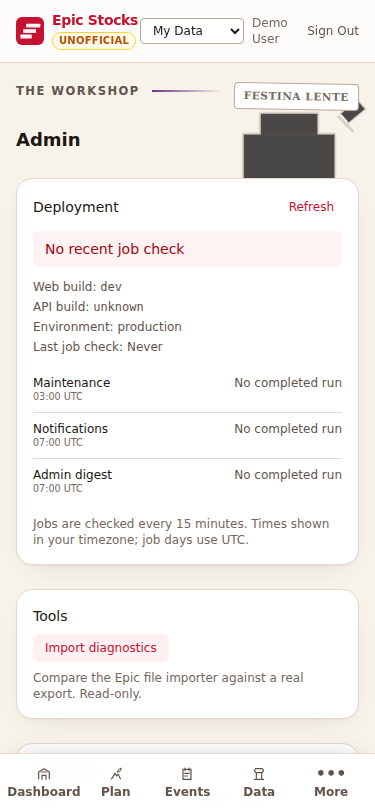
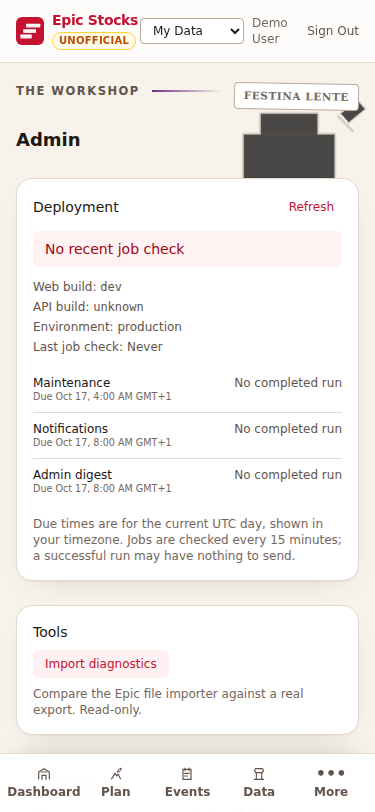
Show local due times and actual job completion in Admin (#577)

Changed region(s): [[0.0293, 0.585, 0.968, 0.9236], [0.088, 0.5234, 0.4693, 0.5542], [0.088, 0.4618, 0.4693, 0.4926]]

diff --git a/frontend/src/__tests__/Admin.test.tsx b/frontend/src/__tests__/Admin.test.tsx
@@ -4,6 +4,7 @@ import userEvent from '@testing-library/user-event'
 import { MemoryRouter } from 'react-router-dom'
 import { AppProvider } from '../app/AppProvider.tsx'
 import Admin from '../scaffold/pages/Admin.tsx'
+import { formatDueLocal } from '../scaffold/pages/admin/deploymentTime.ts'
 
 beforeEach(() => {
   localStorage.setItem('auth_token', 'test-token')
@@ -46,9 +47,9 @@ const DEPLOYMENT_STATUS = {
   build: 'dev', environment: 'staging', state: 'stale',
   last_started_at: null, last_checked_at: null,
   jobs: [
-    { name: 'maintenance', due_utc: '03:00', last_completed_day: null, last_result: null },
-    { name: 'notifications', due_utc: '07:00', last_completed_day: null, last_result: null },
-    { name: 'admin_digest', due_utc: '07:00', last_completed_day: null, last_result: null },
+    { name: 'maintenance', due_utc: '03:00', last_completed_day: null, last_completed_at: null, last_result: null },
+    { name: 'notifications', due_utc: '07:00', last_completed_day: null, last_completed_at: null, last_result: null },
+    { name: 'admin_digest', due_utc: '07:00', last_completed_day: null, last_completed_at: null, last_result: null },
   ],
 }
 
@@ -100,6 +101,13 @@ function renderPage() {
 }
 
 describe('Admin', () => {
+  it('shows UTC due times on the correct local date across daylight saving time', () => {
+    expect(formatDueLocal('03:00', '2026-10-17', 'America/Chicago'))
+      .toMatch(/Oct 16, 10:00 PM CDT/)
+    expect(formatDueLocal('03:00', '2026-01-17', 'America/Chicago'))
+      .toMatch(/Jan 16, 9:00 PM CST/)
+  })
+
   it('shows scheduler health and last completed jobs on a phone', async () => {
     mockFetch({
       '/api/admin/stats': STATS,
@@ -108,7 +116,10 @@ describe('Admin', () => {
       '/api/admin/deployment-status': {
         ...DEPLOYMENT_STATUS, state: 'failed', last_checked_at: '2026-10-17T12:00:00+00:00',
         jobs: DEPLOYMENT_STATUS.jobs.map(job => job.name === 'admin_digest'
-          ? { ...job, last_result: 'failed' } : job),
+          ? { ...job, last_result: 'failed' }
+          : job.name === 'maintenance'
+            ? { ...job, last_completed_day: '2026-10-17', last_completed_at: '2026-10-17T21:45:00Z' }
+            : job),
       },
     })
     renderPage()
@@ -116,6 +127,9 @@ describe('Admin', () => {
     expect(await screen.findByRole('status')).toHaveTextContent('Job failed; retrying')
     expect(screen.getByText('Admin digest')).toBeInTheDocument()
     expect(screen.getByText('Failed last check')).toBeInTheDocument()
+    expect(screen.getByText('UTC day 2026-10-17')).toBeInTheDocument()
+    expect(screen.getByText(/^Ran Oct 17,/)).toBeInTheDocument()
+    expect(screen.getByText(/a successful run may have nothing to send/)).toBeInTheDocument()
     expect(screen.getByRole('button', { name: 'Refresh deployment status' })).toBeInTheDocument()
   })
 

diff --git a/frontend/src/scaffold/pages/admin/DeploymentHealth.tsx b/frontend/src/scaffold/pages/admin/DeploymentHealth.tsx
@@ -1,6 +1,7 @@
 import { useCallback, useEffect, useState } from 'react'
 import { api, type DeploymentStatus } from '../../../api.ts'
 import { AdminSection } from './AdminSection.tsx'
+import { formatDueLocal, formatLocalTime } from './deploymentTime.ts'
 
 const LABELS: Record<DeploymentStatus['state'], string> = {
   healthy: 'Jobs current',
@@ -17,7 +18,7 @@ const JOB_NAMES: Record<string, string> = {
 }
 
 function localTime(value: string | null) {
-  return value ? new Date(value).toLocaleString() : 'Never'
+  return value ? formatLocalTime(value) : 'Never'
 }
 
 export function DeploymentHealth() {
@@ -73,18 +74,19 @@ export function DeploymentHealth() {
           <p>Last job check: {localTime(status.last_checked_at)}</p>
         </div>
         <ul className="divide-y divide-cs-border text-xs">
-          {status.jobs.map(job => <li key={job.name} className="flex justify-between gap-3 py-2">
+          {status.jobs.map(job => <li key={job.name} className="grid grid-cols-2 gap-3 py-2">
             <span className="font-medium text-cs-text">{JOB_NAMES[job.name] ?? job.name}
-              <small className="block font-normal text-cs-muted">{job.due_utc} UTC</small>
+              <small className="block font-normal text-cs-muted">Due {formatDueLocal(job.due_utc, todayUtc)}</small>
             </span>
             <span className="text-right text-cs-text-2">
-              {job.last_completed_day === todayUtc ? 'Done today' :
-                job.last_completed_day ? `Last done ${job.last_completed_day}` : 'No completed run'}
+              {job.last_completed_at ? `Ran ${localTime(job.last_completed_at)}` :
+                job.last_completed_day ? 'Ran (time unavailable)' : 'No completed run'}
+              {job.last_completed_day && <small className="block text-cs-muted">UTC day {job.last_completed_day}</small>}
               {job.last_result === 'failed' && <strong className="block text-red-700 dark:text-red-300">Failed last check</strong>}
             </span>
           </li>)}
         </ul>
-        <p className="text-xs text-cs-muted">Jobs are checked every 15 minutes. Times shown in your timezone; job days use UTC.</p>
+        <p className="text-xs text-cs-muted">Due times are for the current UTC day, shown in your timezone. Jobs are checked every 15 minutes; a successful run may have nothing to send.</p>
       </div>}
     </AdminSection>
   )

diff --git a/frontend/src/scaffold/pages/admin/deploymentTime.ts b/frontend/src/scaffold/pages/admin/deploymentTime.ts
@@ -1,0 +1,12 @@
+export function formatLocalTime(value: string, timeZone?: string) {
+  const date = new Date(value)
+  if (Number.isNaN(date.getTime())) return 'Unknown'
+  return date.toLocaleString(undefined, {
+    month: 'short', day: 'numeric', hour: 'numeric', minute: '2-digit',
+    timeZoneName: 'short', timeZone,
+  })
+}
+
+export function formatDueLocal(dueUtc: string, utcDay: string, timeZone?: string) {
+  return formatLocalTime(`${utcDay}T${dueUtc}:00Z`, timeZone)
+}

diff --git a/frontend/src/api.ts b/frontend/src/api.ts
@@ -766,7 +766,7 @@ export interface DeploymentStatus {
   state: 'healthy' | 'running' | 'pending' | 'failed' | 'stale'
   last_started_at: string | null
   last_checked_at: string | null
-  jobs: { name: string; due_utc: string; last_completed_day: string | null; last_result: string | null }[]
+  jobs: { name: string; due_utc: string; last_completed_day: string | null; last_completed_at: string | null; last_result: string | null }[]
 }
 
 export interface SystemMetricPoint {

diff --git a/backend/tests/test_scheduled_jobs.py b/backend/tests/test_scheduled_jobs.py
@@ -21,6 +21,10 @@ def test_job_runs_after_missed_firing_and_only_once(setup_db, db_session, monkey
     assert jobs.run_due(_at(12)) == {"notifications": "already_done_or_running"}
     assert calls == [_at(9).date()]
     assert db_session.get(SystemSettings, "scheduled:notifications:last_completed").value == "2026-10-17"
+    completed = db_session.get(SystemSettings, "scheduled:notifications:last_completed_at").value
+    assert datetime.fromisoformat(completed).tzinfo == timezone.utc
+    assert jobs.run_due(_at(13)) == {"notifications": "already_done_or_running"}
+    assert db_session.get(SystemSettings, "scheduled:notifications:last_completed_at").value == completed
 
 
 def test_failed_job_retries_without_blocking_other_jobs(setup_db, db_session, monkeypatch):
@@ -39,6 +43,7 @@ def test_failed_job_retries_without_blocking_other_jobs(setup_db, db_session, mo
 
     assert jobs.run_due(_at(8)) == {"maintenance": "failed", "notifications": "completed"}
     assert db_session.get(SystemSettings, "scheduled:maintenance:last_completed") is None
+    assert db_session.get(SystemSettings, "scheduled:maintenance:last_completed_at") is None
     assert jobs.run_due(_at(8) + timedelta(minutes=15)) == {
         "maintenance": "completed", "notifications": "already_done_or_running",
     }

diff --git a/backend/scaffold/routers/admin.py b/backend/scaffold/routers/admin.py
@@ -45,6 +45,7 @@ class ScheduledJobStatus(BaseModel):
     name: str
     due_utc: str
     last_completed_day: str | None
+    last_completed_at: str | None
     last_result: str | None
 
 
@@ -64,7 +65,8 @@ def deployment_status(admin: User = Depends(get_admin_user), db: Session = Depen
             "scheduled:runner:last_results"]
     job_times = (("maintenance", "03:00"), ("notifications", "07:00"),
                  ("admin_digest", "07:00"))
-    keys.extend(f"scheduled:{name}:last_completed" for name, _ in job_times)
+    for name, _ in job_times:
+        keys.extend((f"scheduled:{name}:last_completed", f"scheduled:{name}:last_completed_at"))
     values = {row.key: row.value for row in db.query(SystemSettings).filter(SystemSettings.key.in_(keys))}
     started = values.get("scheduled:runner:last_started_at")
     checked = values.get("scheduled:runner:last_finished_at")
@@ -77,6 +79,7 @@ def deployment_status(admin: User = Depends(get_admin_user), db: Session = Depen
 
     jobs = [ScheduledJobStatus(
         name=name, due_utc=due, last_completed_day=values.get(f"scheduled:{name}:last_completed"),
+        last_completed_at=values.get(f"scheduled:{name}:last_completed_at"),
         last_result=results.get(name),
     ) for name, due in job_times]
     try:

diff --git a/backend/tests/test_admin.py b/backend/tests/test_admin.py
@@ -125,6 +125,7 @@ def test_deployment_status_shows_runner_and_job_health(client, db_session):
             })),
             *[SystemSettings(key=f"scheduled:{name}:last_completed", value=now.date().isoformat())
               for name in ("maintenance", "notifications", "admin_digest")],
+            SystemSettings(key="scheduled:maintenance:last_completed_at", value=now.isoformat()),
         ])
         db_session.commit()
         response = client.get("/api/admin/deployment-status")
@@ -133,6 +134,9 @@ def test_deployment_status_shows_runner_and_job_health(client, db_session):
         assert {job["name"] for job in response.json()["jobs"]} == {
             "maintenance", "notifications", "admin_digest",
         }
+        jobs = {job["name"]: job for job in response.json()["jobs"]}
+        assert jobs["maintenance"]["last_completed_at"] == now.isoformat()
+        assert jobs["notifications"]["last_completed_at"] is None
 
         db_session.get(SystemSettings, "scheduled:runner:last_results").value = json.dumps({
             "notifications": "failed",

diff --git a/backend/scheduled_jobs.py b/backend/scheduled_jobs.py
@@ -85,10 +85,17 @@ def _run_once(name: str, day: date, lock_id: int, action) -> bool:
                 if state and state.value >= day.isoformat():
                     return False
                 action(day)
+                completed_at = datetime.now(timezone.utc).isoformat()
                 if state is None:
                     db.add(SystemSettings(key=key, value=day.isoformat()))
                 else:
                     state.value = day.isoformat()
+                completed_key = f"scheduled:{name}:last_completed_at"
+                completed = db.get(SystemSettings, completed_key)
+                if completed is None:
+                    db.add(SystemSettings(key=completed_key, value=completed_at))
+                else:
+                    completed.value = completed_at
                 db.commit()
                 logger.info("Completed %s job for %s", name, day)
                 return True

diff --git a/README.md b/README.md
@@ -719,7 +719,7 @@ Site admins are designated via the `ADMIN_EMAIL` environment variable (semicolon
 - Total registered users and active users (last 30 days)
 - Aggregate counts: total grants, loans, prices across all users
 - **System Health** — CPU %, RAM %, and DB size with sparkline charts (24h / 72h / 7d / 30d windows). Sampled every 15 minutes; 30-day rolling retention.
-- **Deployment** — the web and API build hashes, environment, last scheduled-job check, and each job's latest successful UTC day. The card refreshes every minute and warns when the runner has not checked in for 35 minutes, a job fails, a due job has not completed, or the web and API builds differ. This is visible on a phone; no VPS access is needed to spot a stopped scheduler.
+- **Deployment** — the web and API build hashes, environment, last scheduled-job check, and each job's actual completion time and UTC job day. Due times for the current UTC day and completion times are shown in your local timezone. A successful run can have no eligible notifications to send. The card refreshes every minute and warns when the runner has not checked in for 35 minutes, a job fails, a due job has not completed, or the web and API builds differ. This is visible on a phone; no VPS access is needed to spot a stopped scheduler.
 - **Database Tables** — per-table size breakdown (PostgreSQL only). Useful for diagnosing storage growth.
 - **Smart Tips Report** — aggregate-only view: total users who accepted a tip, total estimated savings, per-type breakdown. No individual financial data.
 - **No-account preview funnel** — how the `/try` preview converts: previews computed, saves pressed, signups that carried preview data, and the conversion rate, as anonymous daily totals over the last 30 days. The `trial_daily_stats` table holds exactly three integers keyed by date — no IP, no user agent, no per-visitor row — so this measures the feature without recording anything about a visitor. See the privacy policy's "Anonymous counts" section, which discloses it.
@@ -1443,7 +1443,7 @@ The built-in privacy page (`/privacy`) lists the third-party services used by th
 - **Anything a native shell would have to do differently lives behind `frontend/src/platform/`.** Four capabilities — how a session is authenticated and stored, key-value storage, handing the user a file, and push registration — are interfaces with a browser implementation. Feature code calls `platform.files.saveBlob(...)` rather than building an `<a download>`, and `platform.auth.openAuthorizationUrl(...)` rather than assigning `window.location`. These are the exact points where a WebView behaves differently from a browser (blob downloads are inert, `PushManager` does not exist, OAuth in an embedded WebView is refused by identity providers), so isolating them keeps one codebase serving both targets.
 
 - **Schema migrations use Alembic.** Migrations live in `backend/alembic/versions/`. The Hetzner deploy runs `alembic upgrade head` before starting the app; local PostgreSQL defaults to running it on startup. SQLite test environments use `create_all`. Create a new migration with `alembic revision --autogenerate -m "description"`.
-- **Daily jobs run outside the web process.** `python -m scheduled_jobs` checks whether UTC maintenance (03:00), notifications (07:00), and the admin digest (07:00) are due. It stores a runner start/finish heartbeat and the last result of each check, plus the last successful UTC date separately for each job in `system_settings`. Admin → Deployment shows the build and these records, warning after 35 minutes without a completed check. Failed jobs retry on the next invocation, and PostgreSQL advisory locks avoid overlap. Digest delivery also records success per admin so a failed recipient can be retried without resending to successful recipients. Hetzner invokes the command every 15 minutes via a systemd timer installed before the app is taken down for deployment. A future Cloud Run deployment can invoke the same command as a scheduled job. Cache prewarming after writes is best effort: a stopped web instance cannot make reads stale because the cache key includes the current inputs.
+- **Daily jobs run outside the web process.** `python -m scheduled_jobs` checks whether UTC maintenance (03:00), notifications (07:00), and the admin digest (07:00) are due. A newly installed timer catches up later on the current UTC day, even when the due hour passed before deployment. It stores a runner start/finish heartbeat and the last result of each check, plus the last successful UTC date and timestamp separately for each job in `system_settings`. Admin → Deployment shows the build and these records, warning after 35 minutes without a completed check. Failed jobs retry on the next invocation, and PostgreSQL advisory locks avoid overlap. Digest delivery also records success per admin so a failed recipient can be retried without resending to successful recipients. Hetzner invokes the command every 15 minutes via a systemd timer installed before the app is taken down for deployment. A future Cloud Run deployment can invoke the same command as a scheduled job. Cache prewarming after writes is best effort: a stopped web instance cannot make reads stale because the cache key includes the current inputs.
 
 **ChatGPT UI code:** `backend/app/mcp/import_ui.py` runs plugin parsing, review and wizard acceptance; `import_files.py` downloads bounded host file references with HTTPS, a host allowlist, public DNS pinned for the connection and no redirects. `backend/app/mcp/ui_tools.py` registers the scoped presentation tools and versioned resource; `portfolio.html` is the self-contained MCP Apps component. `plugins/epic-stocks/` holds the portable package source and `scripts/build-chatgpt-plugin.py` builds it for a deployment. Component host tests and synthetic screenshots live in `frontend/e2e/plugin-ui.spec.ts` and `plugin-host.ts`.
 

diff --git a/OPERATIONS.md b/OPERATIONS.md
@@ -238,11 +238,11 @@ No automatic rollback. The deploy runs Alembic before starting the app; revertin
 
 ### Daily jobs
 
-`epic-stocks-jobs.timer` starts a one-off app container every 15 minutes. The container runs `python -m scheduled_jobs`, not Uvicorn. It runs nightly maintenance after 03:00 UTC, and notifications and the admin digest as separate jobs after 07:00 UTC. Successful UTC dates live in `system_settings` as `scheduled:maintenance:last_completed`, `scheduled:notifications:last_completed`, and `scheduled:admin_digest:last_completed`; a failed or missed job is retried at the next timer firing on the same day without rerunning the others. Successful digest recipients have individual hashed-address completion markers, so a partial email failure retries only those still pending. The timer is installed by `.github/workflows/deploy.yml` on both VPS hosts before the old app is taken down. No host-side manual installation is needed.
+`epic-stocks-jobs.timer` starts a one-off app container every 15 minutes. The container runs `python -m scheduled_jobs`, not Uvicorn. It runs nightly maintenance after 03:00 UTC, and notifications and the admin digest as separate jobs after 07:00 UTC. If installed after those times, the next firing runs the jobs for the current UTC day. Successful UTC dates live in `system_settings` as `scheduled:maintenance:last_completed`, `scheduled:notifications:last_completed`, and `scheduled:admin_digest:last_completed`; the corresponding `last_completed_at` keys record actual UTC finish times. A failed or missed job is retried at the next timer firing on the same day without rerunning the others. Successful digest recipients have individual hashed-address completion markers, so a partial email failure retries only those still pending. The timer is installed by `.github/workflows/deploy.yml` on both VPS hosts before the old app is taken down. No host-side manual installation is needed.
 
 To inspect a deployment, check `systemctl status epic-stocks-jobs.timer`, `systemctl status epic-stocks-jobs.service`, and `journalctl -u epic-stocks-jobs.service -n 100`. Check the recorded days with `docker compose exec db psql -U postgres -d vesting -c "SELECT key, value FROM system_settings WHERE key LIKE 'scheduled:%:last_completed';"`. If the timer fails, fix the tracked service/timer or app code through a PR and redeploy; the next invocation catches up for the current UTC day. If a site is down past midnight, old notification days are intentionally not replayed. An external send can be repeated if the process dies after sending but before recording success; per-user `last_notified_at` limits repeat user notifications.
 
-Admins can check this from a phone in **Admin → Deployment**. The API returns the running backend build, environment, last runner start and finish, latest job results and completion dates. The panel warns if the check is older than 35 minutes, a job failed, a due job remains incomplete, or the frontend and backend builds differ. The runner writes its heartbeat in `system_settings` on each invocation; this measures actual job execution, not merely an enabled systemd timer. If the database itself is unavailable, the panel shows an error instead. It cannot display the GitHub Actions deployment result; use the Deploy workflow for that.
+Admins can check this from a phone in **Admin → Deployment**. The API returns the running backend build, environment, last runner start and finish, latest job results and completion timestamps. The panel shows each due time for the current UTC job day in the phone's timezone and labels the completed UTC day. A completed notifications or digest job may have had no eligible recipients, and the panel cannot prove provider delivery. Runs completed before timestamps were introduced show their UTC day with the time unavailable until the next successful run. The panel warns if the check is older than 35 minutes, a job failed, a due job remains incomplete, or the frontend and backend builds differ. The runner writes its heartbeat in `system_settings` on each invocation; this measures actual job execution, not merely an enabled systemd timer. If the database itself is unavailable, the panel shows an error instead. It cannot display the GitHub Actions deployment result; use the Deploy workflow for that.
 
 For local development with no systemd timer, run `docker compose run --rm app python -m scheduled_jobs` to check due jobs. The Hetzner workflow writes `DB_POOL_SIZE=10` and `DB_MAX_OVERFLOW=20` into `.env` unless overridden by GitHub environment variables, preserving the prior VPS pool capacity. For request-based hosting, schedule the same CLI every 15 minutes, set `RUN_MIGRATIONS_ON_STARTUP=0` after a separate migration step, and set `SAMPLE_SYSTEM_METRICS=0`; size `DB_POOL_SIZE`, `DB_MAX_OVERFLOW`, and maximum instance count together against the PostgreSQL connection limit.
 
